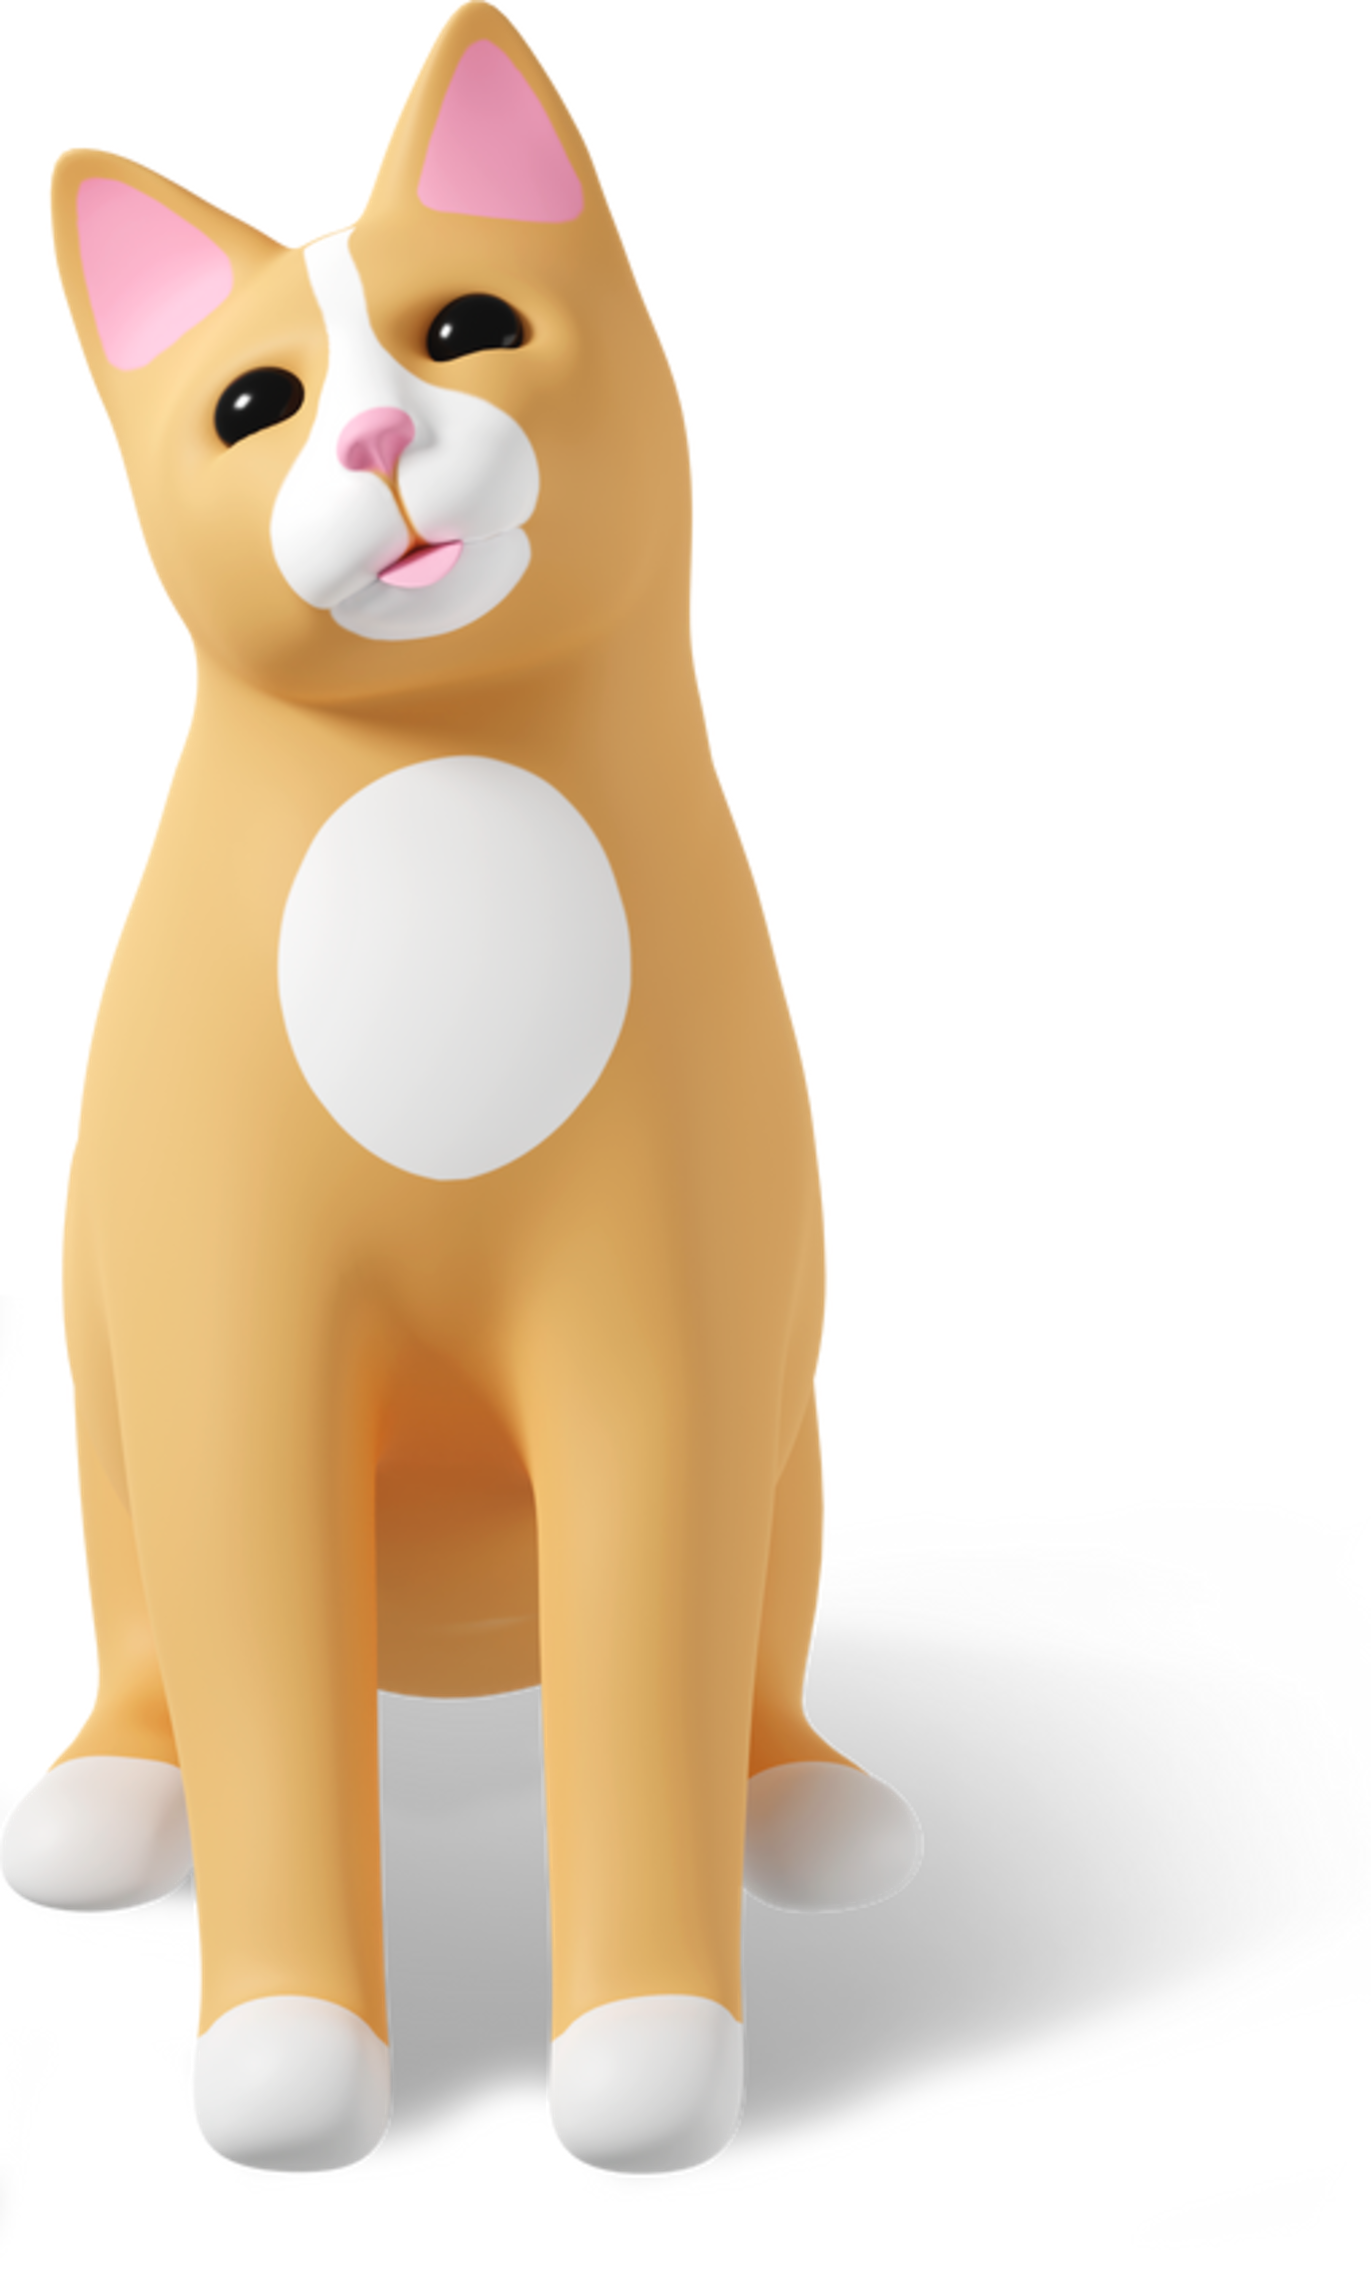
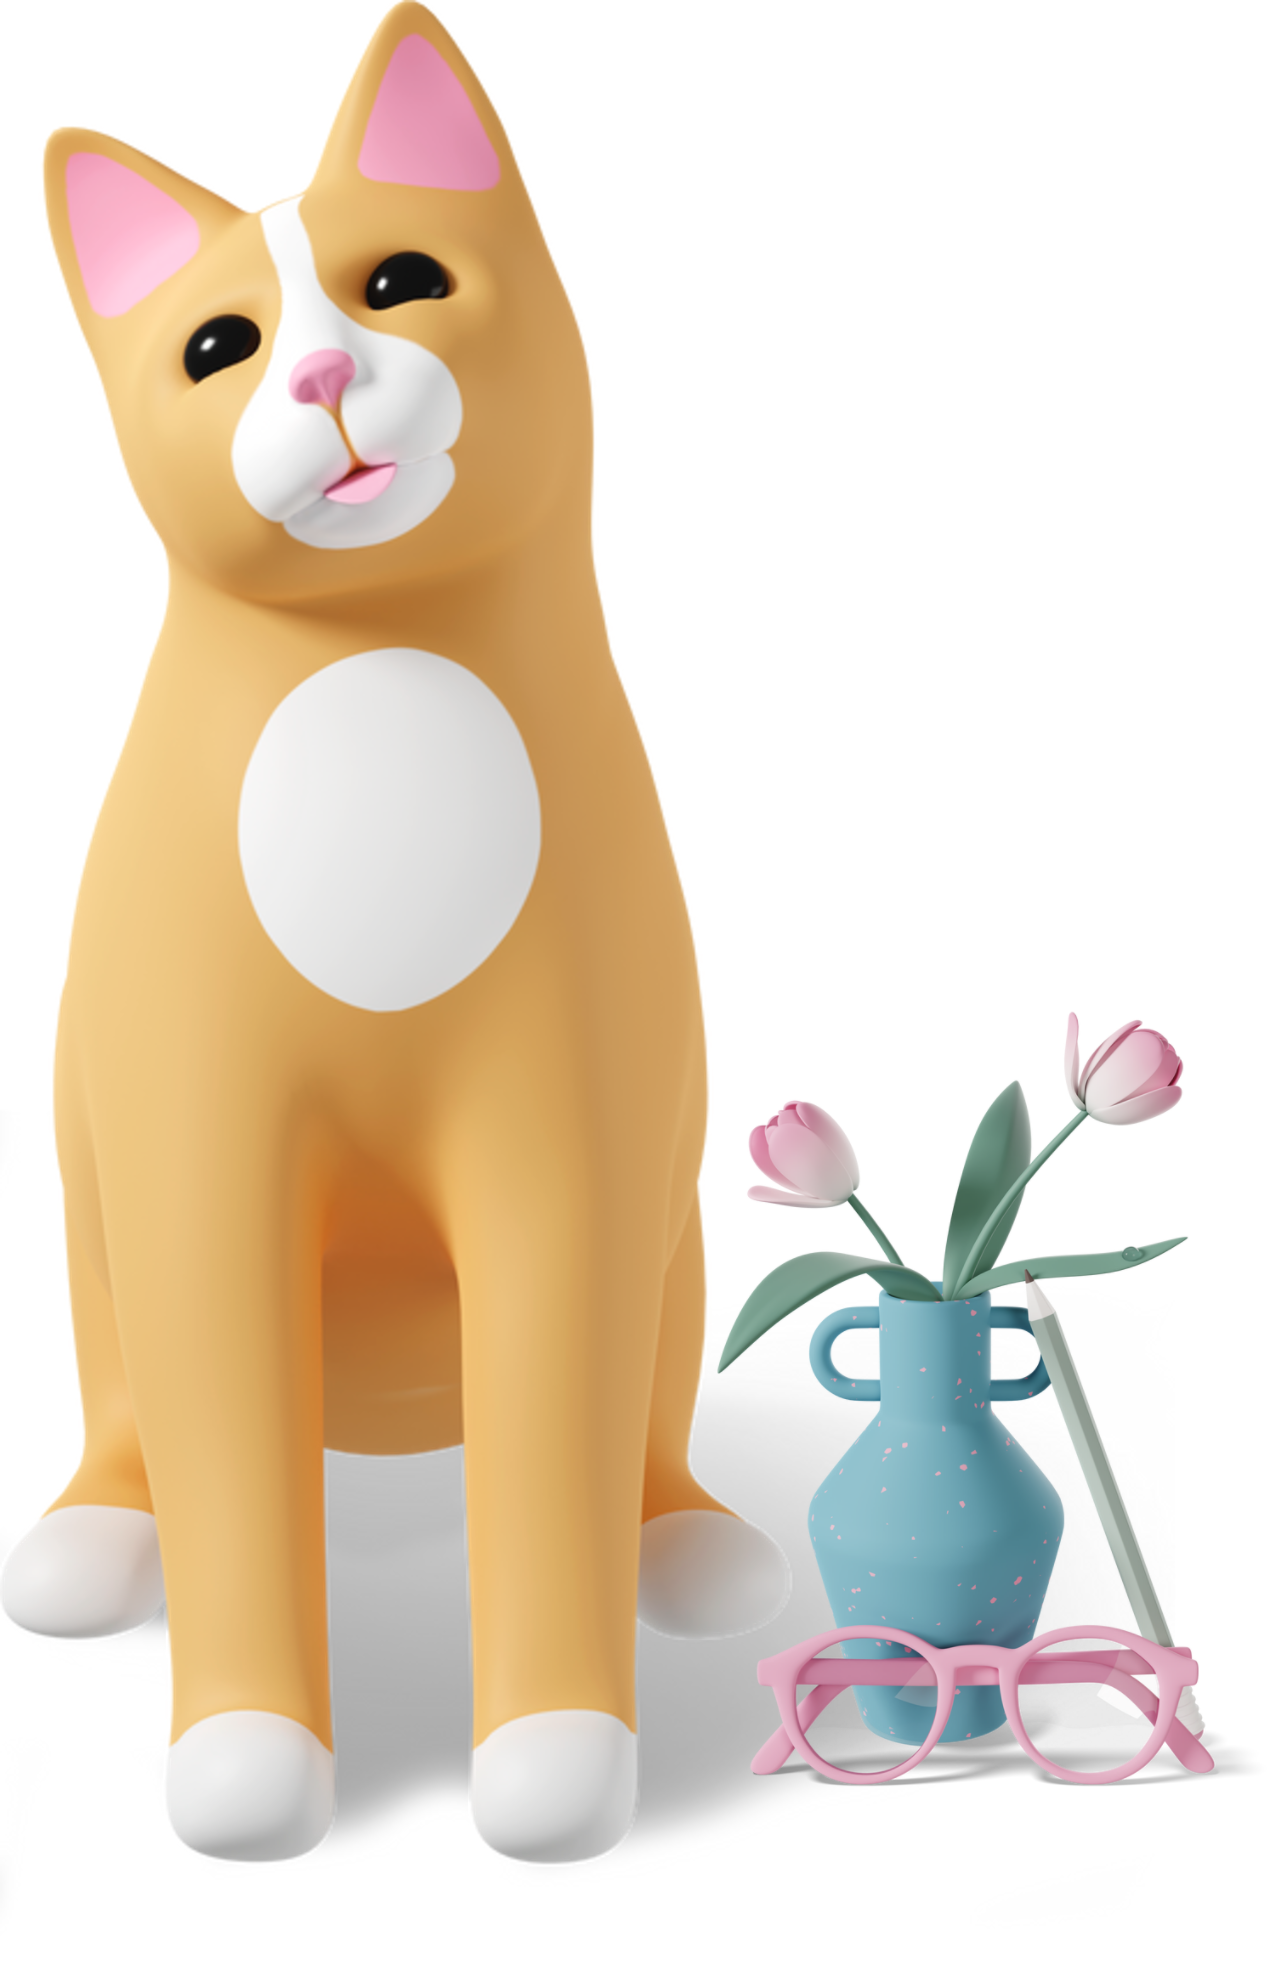
Обновлена картинка на странице ОНС. Добавлена картинка в шапку. Добавлены стили для кнопок. Исправлены наименования. Удалена страница contact.tpl.

diff --git a/BottleWebProject_C022_ 5_PPBS/static/content/site.css b/BottleWebProject_C022_ 5_PPBS/static/content/site.css
@@ -3,7 +3,10 @@
     --gradient-two: rgba(241,193,121,1);
     --gradient-three: rgba(238,185,134,0.5);
     --gradient-four: rgba(233,174,152,0.5);
-    --github-button: #EBEAEA;
+    --our-secondary-button-backhover: rgba(117,173,156,1);
+    --our-secondary-button-background: rgba(34,75,84,1);
+    --our-secondary-button-active: rgba(123,174,182,1);
+    --our-secondary-button-disabled: rgba(226,194,204,1)
 }
 
 @font-face {
@@ -35,17 +38,57 @@ body {
     border-radius: 10px;
 }
 
-.btn-github
-{
-    color: var(--github-button);
+.btn-github {
+    color: var(--our-secondary-button-background);
 }
 
-.btn-outline-secondary > i {
-    color: var(--bs-btn-color);
+.btn-our-secondary {
+    --bs-btn-color: var(--our-secondary-button-background);
+    --bs-btn-border-color: var(--our-secondary-button-background);
+    --bs-btn-hover-color: var(--our-secondary-button-background);
+    --bs-btn-hover-bg: var(--our-secondary-button-backhover);
+    --bs-btn-hover-border-color: var(--our-secondary-button-backhover);
+    --bs-btn-focus-shadow-rgb: 108,117,125;
+    --bs-btn-active-color: var(--our-secondary-button-background);
+    --bs-btn-active-bg: var(--our-secondary-button-active);
+    --bs-btn-active-border-color: var(--our-secondary-button-backhover);
+    --bs-btn-active-shadow: inset 0 3px 5px rgba(0, 0, 0, 0.125);
+    --bs-btn-disabled-color: var(--our-secondary-button-background);
+    --bs-btn-disabled-bg: var(--our-secondary-button-disabled);
+    --bs-btn-disabled-border-color: var(--our-secondary-button-disabled);
+    --bs-gradient: none;
+}
+
+.btn.disabled, .btn:disabled, fieldset:disabled .btn {
+    color: var(--bs-btn-disabled-color);
+    pointer-events: none;
+    background-color: var(--bs-btn-disabled-bg);
+    border-color: var(--bs-btn-disabled-border-color);
+    opacity: var(--bs-btn-disabled-opacity);
 }
 
 .btn:hover > i {
-    color: var(--bs-btn-hover-color);
+    color: var(--bs-btn-hover-color)
+}
+
+.btn > i {
+    transition: color .15s ease-in-out,background-color .15s ease-in-out,border-color .15s ease-in-out,box-shadow .15s ease-in-out;
+}
+
+.btn-our-result {
+    --bs-btn-bg: var(--our-secondary-button-backhover);
+    --bs-btn-border-color: var(--our-secondary-button-backhover);
+    --bs-btn-hover-color: #fff;
+    --bs-btn-hover-bg: #417887;
+    --bs-btn-hover-border-color: #417887;
+    --bs-btn-focus-shadow-rgb: 49,132,253;
+    --bs-btn-active-color: #fff;
+    --bs-btn-active-bg: var(--our-secondary-button-active);
+    --bs-btn-active-border-color: var(--our-secondary-button-backhover);
+    --bs-btn-active-shadow: inset 0 3px 5px rgba(0, 0, 0, 0.125);
+    --bs-btn-disabled-color: var(--our-secondary-button-background);
+    --bs-btn-disabled-bg: var(--our-secondary-button-disabled);
+    --bs-btn-disabled-border-color: var(--our-secondary-button-disabled);
 }
 
 .dropdown-item.active, .dropdown-item:active {
@@ -53,4 +96,3 @@ body {
     text-decoration: none;
     background: linear-gradient(90deg, var(--gradient-three), var(--gradient-four), var(--gradient-four), var(--gradient-four), var(--gradient-three));
 }
-

diff --git a/BottleWebProject_C022_ 5_PPBS/routes.py b/BottleWebProject_C022_ 5_PPBS/routes.py
@@ -17,23 +17,11 @@ def home():
         year=datetime.now().year
     )
 
-@route('/contact')
-@view('contact')
-def contact():
-    """Renders the contact page."""
-    return dict(
-        title='Contact',
-        message='Your contact page.',
-        year=datetime.now().year
-    )
-
 @route('/about')
 @view('about')
 def about():
     """Renders the about page."""
     return dict(
-        title='About',
-        message='Your application description page.',
         year=datetime.now().year
     )
 
